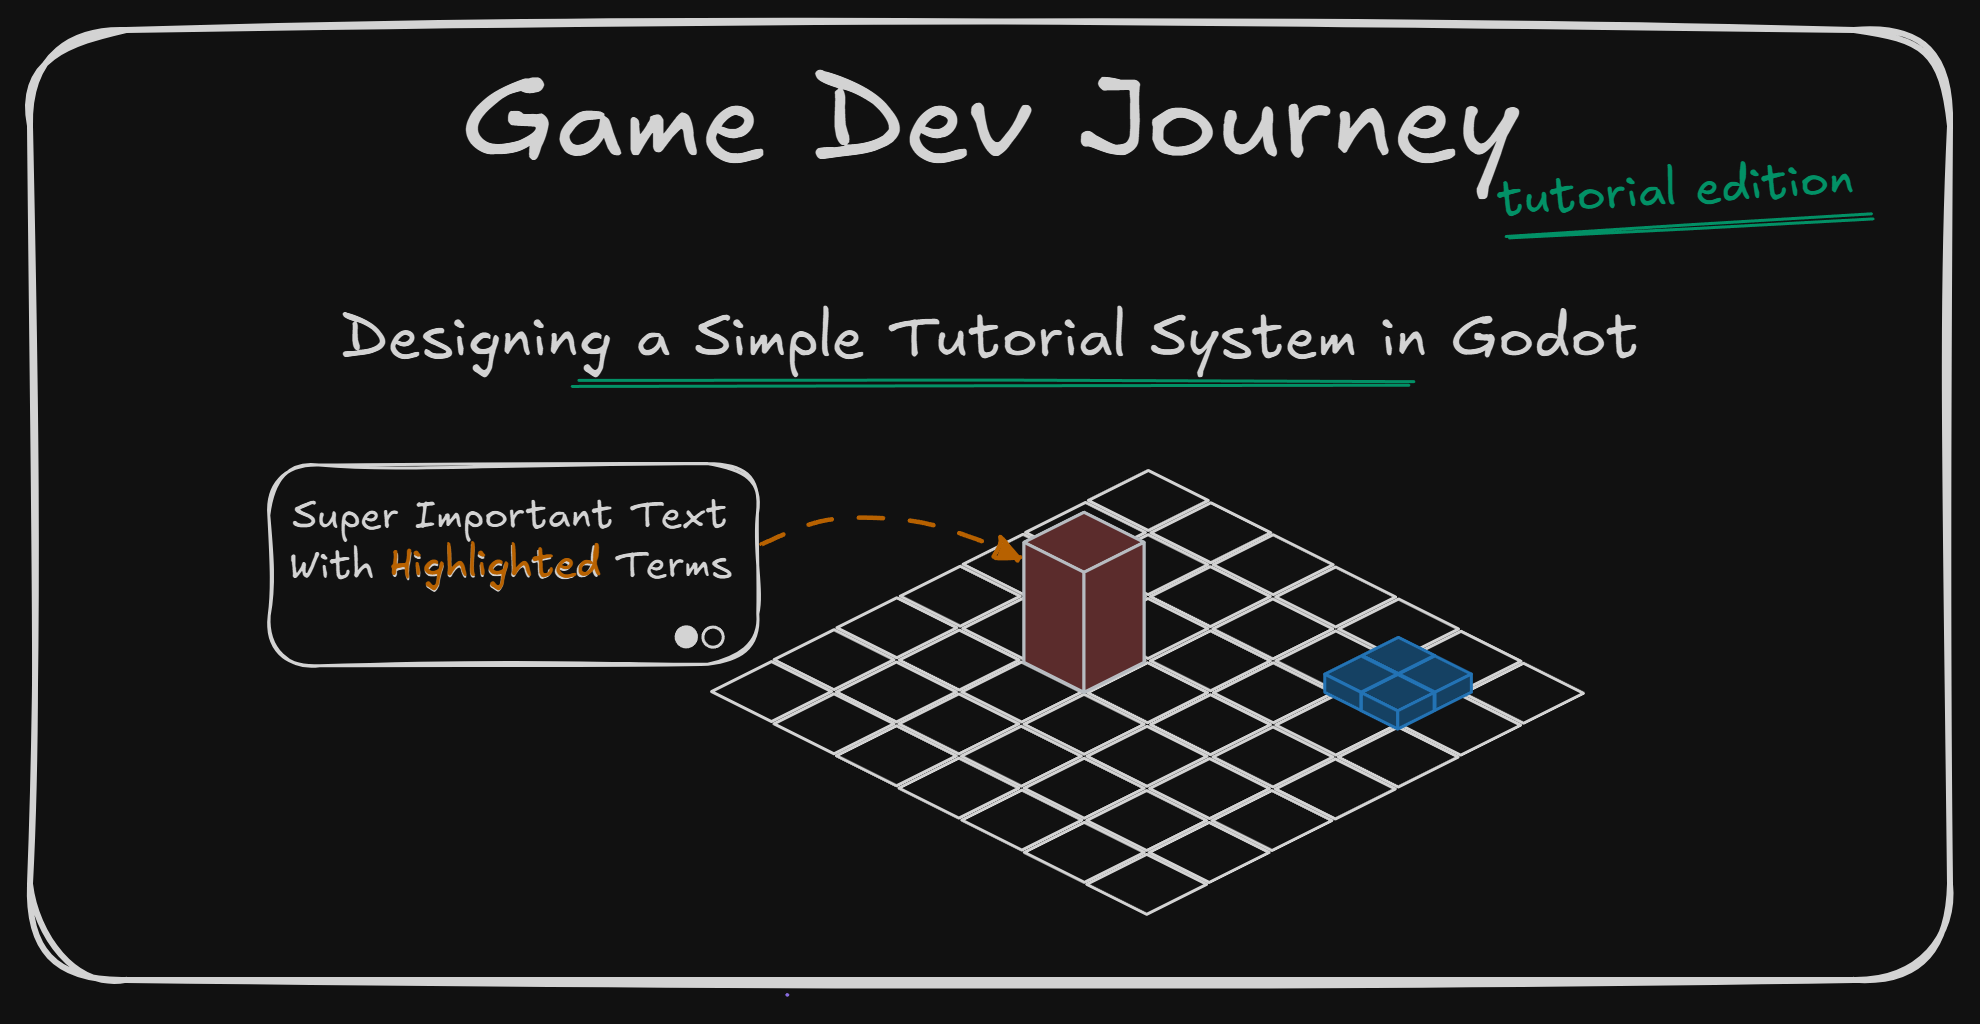
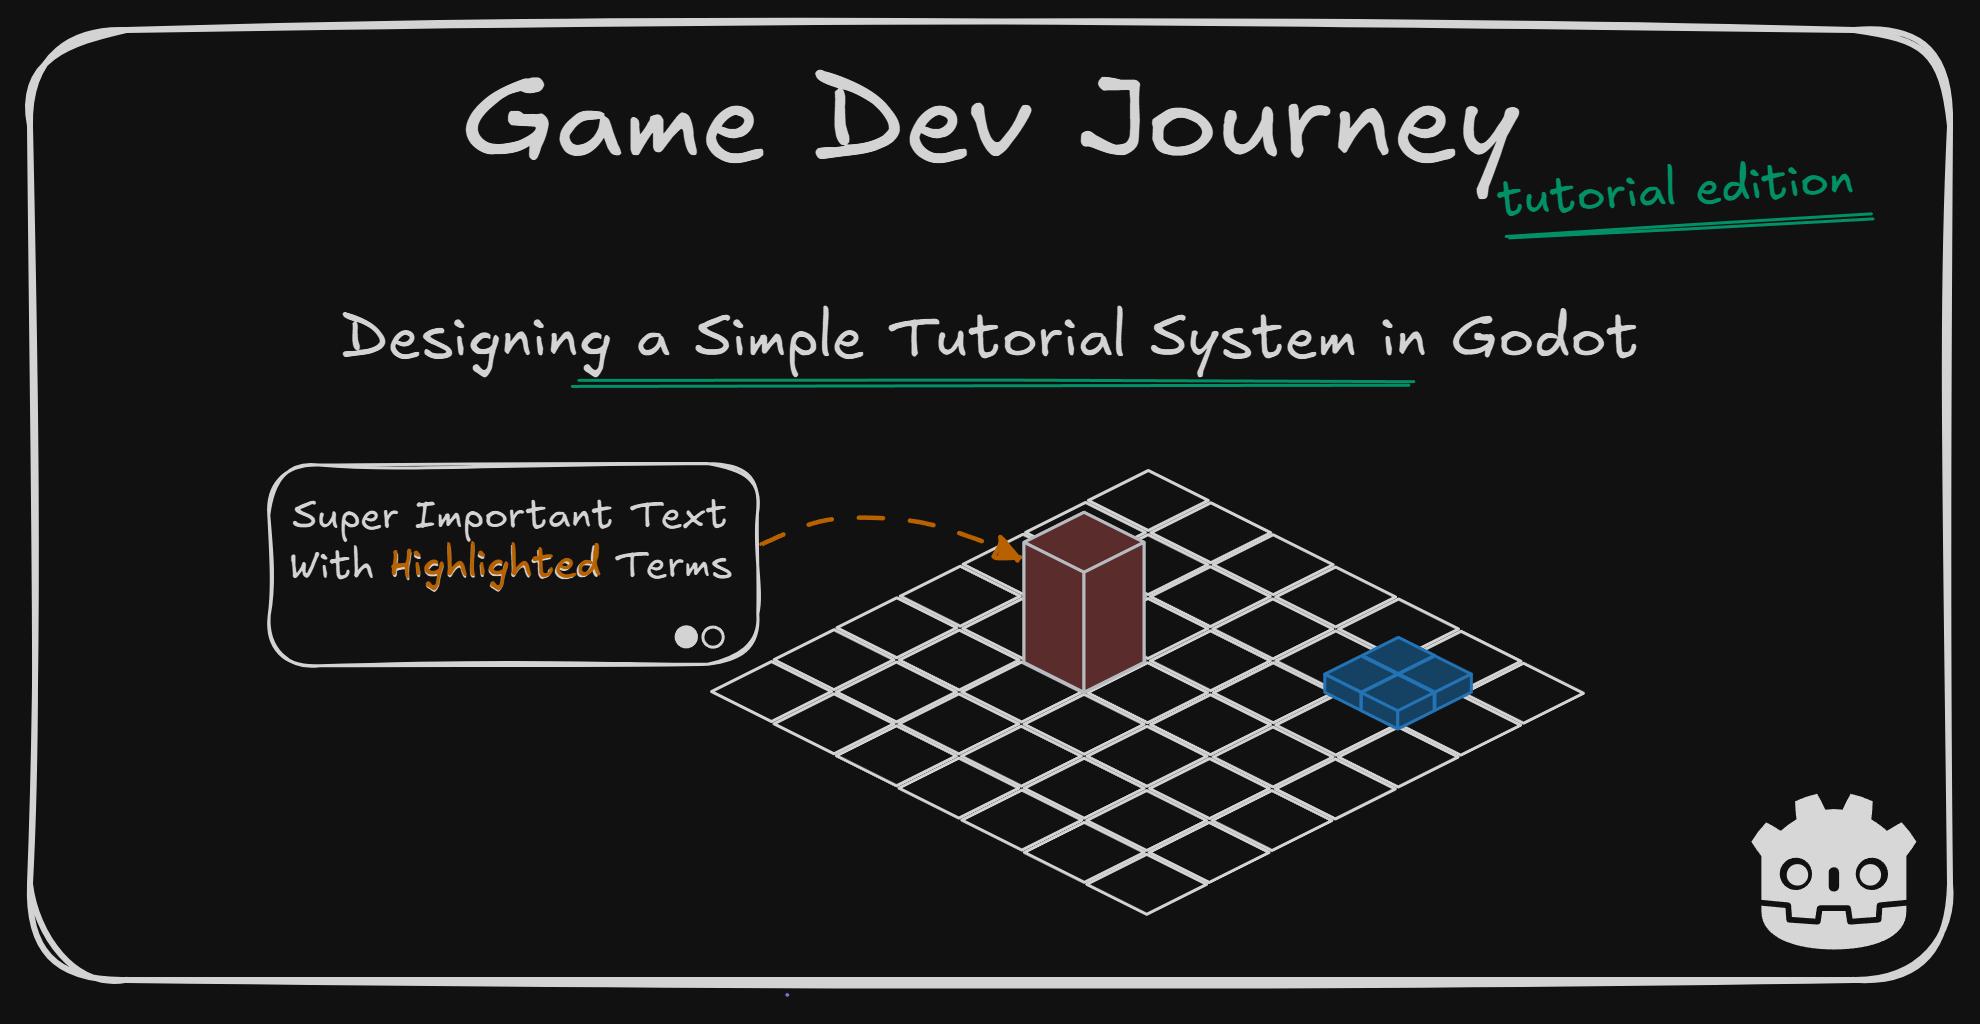
designing tutorial system blog post - typo + cover image fix

Changed region(s): [[0.8626, 0.7812, 0.9859, 0.9375]]

diff --git a/gamedev/Designing a Simple Tutorial System in Godot.md b/gamedev/Designing a Simple Tutorial System in Godot.md
@@ -24,6 +24,7 @@ With this in mind, I decided to split the system in three components :
 With this system implemented, I am able to focus on writing down different tutorials in their own `Resource` files and having them show up when I want to, without having to shuffle through all my game's files to see where I should do something or not.
 
 Here's a sneak peek of the final result :
+
 [![Tutorial Preview](https://img.youtube.com/vi/4wo-pN52NXY/hqdefault.jpg)](https://youtu.be/4wo-pN52NXY)
 
 On the following sections, I'll do my best to explain "how" I implemented each component as well as the "why" behind some core decisions. All of the components can (and should!) be customized to fit a game's specific needs. 
@@ -46,7 +47,7 @@ With this `Resource`, we can now create a sample instance of it and move along. 
 
 ![load tutorials sample](load_tutorials_sample.png)
 
-Bonus points : If we want to keep track which tutorials were already seen or not, it's also really easy to do. One plan `Dictionary[String, bool]` to keep track of which tutorial id has been seen or not, store it in it's own file and we got it covered (from a data-perspective)
+Bonus points : If we want to keep track which tutorials were already seen or not, it's also really easy to do. One plain `Dictionary[String, bool]` to keep track of which tutorial id has been seen or not, store it in it's own file and we got it covered (from a data-perspective)
 
 > And how or when do we mark it as "seen" ?
 
